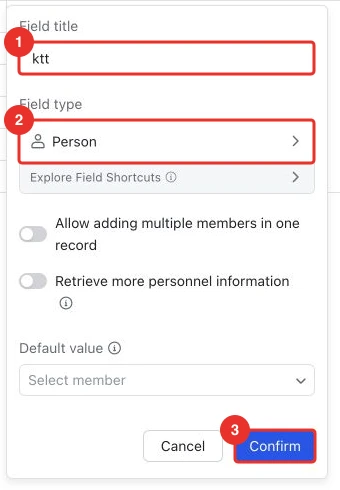
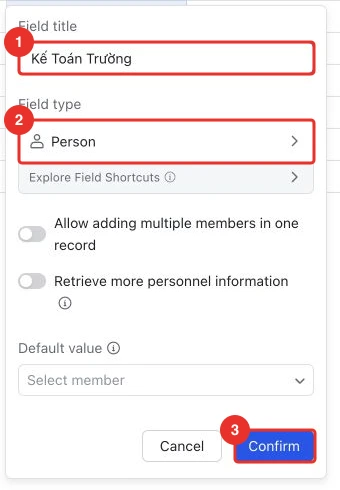
Use full Ke Toan Truong field label in guide

diff --git a/src/content/guides/thiet-lap-base.md b/src/content/guides/thiet-lap-base.md
@@ -5,7 +5,7 @@ description: "Tạo đủ 10 cột và chọn đúng tài khoản Lark cho nhân
 order: 1
 updated: "2026-10-01"
 verified: "2026-10-01"
-keywords: ["tạo Base","nhân viên","Họ Tên","Person","Text","tài khoản","account","Trưởng bộ phận","ktt","Kế toán trưởng","Tổng Giám Đốc","Ban kiểm soát","Chủ tịch","nhiều thành viên","cột","column","Search for members","Send a notification"]
+keywords: ["tạo Base","nhân viên","Họ Tên","Person","Text","tài khoản","account","Trưởng bộ phận","Kế Toán Trường","ktt","Tổng Giám Đốc","Ban kiểm soát","Chủ tịch","nhiều thành viên","cột","column","Search for members","Send a notification"]
 steps:
   - title: "Mở New — Tạo mới và chọn Base"
     action: "Trong Lark Docs, mở Home — Trang chủ. Bấm New — Tạo mới (khung 1), rồi bấm Base (khung 2)."
@@ -102,15 +102,15 @@ steps:
     alt: "Ảnh thật trong Lark, khung đỏ chỉ vị trí thao tác: Tạo cột Trưởng bộ phận bằng Person"
     value: "Field title: Trưởng bộ phận\nField type: Person"
     note: "Cột này chứa tài khoản người phụ trách trực tiếp của từng nhân viên. Đừng tạo kiểu Text rồi gõ tên người phụ trách."
-  - title: "Tạo cột ktt bằng Person"
-    action: "Bấm dấu +. Nhập ktt ở Field title (khung 1). Chọn Person ở Field type (khung 2), rồi bấm Confirm (khung 3)."
-    result: "Có cột ktt với biểu tượng hình người."
+  - title: "Tạo cột Kế Toán Trường bằng Person"
+    action: "Bấm dấu +. Nhập Kế Toán Trường ở Field title (khung 1). Chọn Person ở Field type (khung 2), rồi bấm Confirm (khung 3)."
+    result: "Có cột Kế Toán Trường với biểu tượng hình người."
     image: "thiet-lap-base/accountant-field.webp"
     imageWidth: 340
     imageHeight: 490
-    alt: "Ảnh thật trong Lark, khung đỏ chỉ vị trí thao tác: Tạo cột ktt bằng Person"
-    value: "Field title: ktt\nField type: Person"
-    note: "ktt là Kế toán trưởng. Giữ đúng tên ktt để khớp bài kết nối và mẫu hiện tại."
+    alt: "Ảnh thật trong Lark, khung đỏ chỉ vị trí thao tác: Tạo cột Kế Toán Trường bằng Person"
+    value: "Field title: Kế Toán Trường\nField type: Person"
+    note: "Dùng tên đầy đủ Kế Toán Trường cho dễ hiểu. Cột này phải là Person để chọn tài khoản người phụ trách."
   - title: "Tạo cột Tổng Giám Đốc bằng Person"
     action: "Bấm dấu +. Nhập Tổng Giám Đốc ở Field title (khung 1). Chọn Person ở Field type (khung 2), rồi bấm Confirm (khung 3)."
     result: "Có cột Tổng Giám Đốc với biểu tượng hình người."
@@ -138,7 +138,7 @@ steps:
     value: "Field title: Chủ tịch\nField type: Person"
     note: "Chủ tịch là cột bắt buộc cho các công ty TYG. Chọn tài khoản Chủ tịch áp dụng cho công ty của nhân viên."
   - title: "Kiểm tra các cột nhân viên và cấp phụ trách"
-    action: "Đối chiếu hàng tiêu đề với bảng 10 cột ở đầu bài. Person, Trưởng bộ phận, ktt và Tổng Giám Đốc phải có biểu tượng hình người."
+    action: "Đối chiếu hàng tiêu đề với bảng 10 cột ở đầu bài. Person, Trưởng bộ phận, Kế Toán Trường và Tổng Giám Đốc phải có biểu tượng hình người."
     result: "Họ Tên, Chức vụ, Phòng ban là chữ; các cột tài khoản là Person."
     image: "thiet-lap-base/columns-left.webp"
     imageWidth: 1444
@@ -229,14 +229,14 @@ steps:
     alt: "Ảnh thật trong Lark, khung đỏ chỉ vị trí thao tác: Chọn Trưởng bộ phận A cho X"
     value: "A = người phụ trách trực tiếp của X"
     note: "Chọn A theo quan hệ phụ trách đã được công ty xác nhận. Không tự điền X vào cột này, cũng không mặc định lấy người tạo Base."
-  - title: "Chọn Kế toán trưởng B cho X"
-    action: "Trên dòng của X, bấm đúp ô ktt (khung 1). Tìm và chọn tài khoản Kế toán trưởng B của công ty (khung 2)."
-    result: "Ô ktt trên dòng X chứa tài khoản B."
+  - title: "Chọn Kế Toán Trường B cho X"
+    action: "Trên dòng của X, bấm đúp ô Kế Toán Trường (khung 1). Tìm và chọn tài khoản Kế Toán Trường B của công ty (khung 2)."
+    result: "Ô Kế Toán Trường trên dòng X chứa tài khoản B."
     image: "thiet-lap-base/accountant-picker.webp"
     imageWidth: 305
     imageHeight: 116
-    alt: "Ảnh thật trong Lark, khung đỏ chỉ vị trí thao tác: Chọn Kế toán trưởng B cho X"
-    value: "B = Kế toán trưởng áp dụng cho X"
+    alt: "Ảnh thật trong Lark, khung đỏ chỉ vị trí thao tác: Chọn Kế Toán Trường B cho X"
+    value: "B = Kế Toán Trường áp dụng cho X"
   - title: "Chọn Tổng giám đốc C cho X"
     action: "Trên dòng của X, bấm đúp ô Tổng Giám Đốc (khung 1). Tìm và chọn tài khoản Tổng giám đốc C của công ty (khung 2)."
     result: "Ô Tổng Giám Đốc trên dòng X chứa tài khoản C."
@@ -272,7 +272,7 @@ steps:
     alt: "Ảnh thật trong Lark, khung đỏ chỉ vị trí thao tác: Thêm từng nhân viên còn lại"
     note: "A/B/C/D/E cũng là nhân sự thì vẫn có dòng riêng của họ. Tuyến phụ trách của họ phải theo danh sách công ty xác nhận; không suy ra từ ví dụ của X. Chỉ dùng chung người phụ trách khi thực tế đã xác nhận giống nhau."
   - title: "Kiểm tra trước khi kết nối Approval"
-    action: "Đối chiếu từng dòng với danh sách nhân sự đã xác nhận: Person đúng nhân viên; Trưởng bộ phận, ktt, Tổng Giám Đốc, Ban kiểm soát và Chủ tịch đúng tài khoản. Kiểm tra Lark báo Saved to cloud."
+    action: "Đối chiếu từng dòng với danh sách nhân sự đã xác nhận: Person đúng nhân viên; Trưởng bộ phận, Kế Toán Trường, Tổng Giám Đốc, Ban kiểm soát và Chủ tịch đúng tài khoản. Kiểm tra Lark báo Saved to cloud."
     result: "Base của công ty có đủ 10 cột và dữ liệu tài khoản đã được kiểm tra. Có thể sang bài Kết nối Base với Approval."
     image: "thiet-lap-base/columns-right.webp"
     imageWidth: 557
@@ -292,11 +292,13 @@ faqs:
     answer: "Bấm đúp tiêu đề Ban kiểm soát. Kiểm tra Field type là Person và bật Allow adding multiple members in one record, rồi Confirm. Sau đó chọn lại đủ các thành viên đã được công ty xác nhận."
   - question: "Có thể ghi chữ “Ban kiểm soát” hoặc “Chủ tịch” vào ô không?"
     answer: "Không dùng chữ thay cho tài khoản. Ban kiểm soát cần các tài khoản thành viên D1, D2…; Chủ tịch cần tài khoản E. Hai cột này dùng Person và là cột bắt buộc trong Base công ty theo yêu cầu TYG."
-  - question: "Các nhân viên cùng công ty có thể dùng cùng ktt, Tổng giám đốc, Ban kiểm soát và Chủ tịch?"
+  - question: "Các nhân viên cùng công ty có thể dùng cùng Kế Toán Trường, Tổng giám đốc, Ban kiểm soát và Chủ tịch?"
     answer: "Có thể chọn cùng tài khoản nếu đúng danh sách công ty đã xác nhận. Trưởng bộ phận có thể khác giữa các nhân viên. Không mặc định sao chép mọi người phụ trách từ một dòng sang tất cả dòng."
   - question: "Base tự tạo luồng duyệt theo các cấp trên chưa?"
     answer: "Chưa. Base chỉ lưu các tài khoản để biểu mẫu có thể tham chiếu. Còn phải cấu hình từng bước và điều kiện trong Process Design của Approval. Bài kế tiếp chỉ hướng dẫn mẫu một bước theo Person; chưa đặt chính sách duyệt nhiều cấp."
 changes:
+  - date: "2026-10-01"
+    text: "Đổi tên cột ktt thành Kế Toán Trường theo yêu cầu TYG; cập nhật hướng dẫn, ví dụ và ảnh thật trong Base thực hành."
   - date: "2026-10-01"
     text: "Thêm bài trước phần kết nối Approval: 10 cột, phân biệt Text và Person, ví dụ X/A/B/C/D1/D2/E; Ban kiểm soát và Chủ tịch bắt buộc, Ban kiểm soát cho phép nhiều tài khoản theo xác nhận của TYG."
 sources:
@@ -318,7 +320,7 @@ sources:
 | Chức vụ | Text — Văn bản | Nhân viên kinh doanh (ví dụ) |
 | Phòng ban | Text — Văn bản | Phòng kinh doanh (ví dụ) |
 | Trưởng bộ phận | Person — Tài khoản người | Chọn A, người phụ trách trực tiếp của X |
-| ktt | Person — Tài khoản người | Chọn B, Kế toán trưởng của công ty |
+| Kế Toán Trường | Person — Tài khoản người | Chọn B, Kế Toán Trường của công ty |
 | Tổng Giám Đốc | Person — Tài khoản người | Chọn C, Tổng giám đốc của công ty |
 | Ban kiểm soát | Person — cho phép nhiều thành viên | Chọn các tài khoản D1, D2… |
 | Chủ tịch | Person — Tài khoản người | Chọn E, Chủ tịch áp dụng cho công ty |
@@ -329,7 +331,7 @@ sources:
 
 X/A/B/C/D1/D2/E là **ký hiệu giả để giải thích**, không phải tên tài khoản có thể tìm trên Lark. Trong công ty của bạn, thay từng ký hiệu bằng đúng tài khoản thật đã xác nhận.
 
-| Dòng nhân viên | Person | Trưởng bộ phận | ktt | Tổng Giám Đốc | Ban kiểm soát | Chủ tịch |
+| Dòng nhân viên | Person | Trưởng bộ phận | Kế Toán Trường | Tổng Giám Đốc | Ban kiểm soát | Chủ tịch |
 | --- | --- | --- | --- | --- | --- | --- |
 | Nhân viên X | Tài khoản X | Tài khoản A | Tài khoản B | Tài khoản C | Tài khoản D1 và D2… | Tài khoản E |
 

diff --git a/src/content/guides/ket-noi-base.md b/src/content/guides/ket-noi-base.md
@@ -51,13 +51,13 @@ steps:
     note: "Person phải là cột kiểu Person trong Base. Cột Họ Tên kiểu Text chỉ chứa chữ, không đại diện cho tài khoản Lark để duyệt."
   - title: "Thêm các trường còn lại của mẫu"
     action: "Tiếp tục bấm Add để chọn từng trường cần đưa vào biểu mẫu."
-    value: "Chức vụ\nPhòng ban\nTrưởng bộ phận\nktt\nTổng Giám Đốc"
+    value: "Chức vụ\nPhòng ban\nTrưởng bộ phận\nKế Toán Trường\nTổng Giám Đốc"
     result: "Danh sách có sáu trường như ảnh. Các trường xuất hiện cùng nhóm trong biểu mẫu."
     image: "ket-noi-base/reference-fields.webp"
     imageWidth: 350
     imageHeight: 320
     alt: "Danh sách trường tham chiếu trong mẫu gồm Person, Chức vụ, Phòng ban, Trưởng bộ phận, ktt và Tổng Giám Đốc"
-    note: "ktt là Kế toán trưởng. Base công ty còn cần Ban kiểm soát và Chủ tịch theo bài 01; mẫu kết nối đang tham chiếu sáu trường như ảnh. Các cột tài khoản chưa tự trở thành cấp duyệt. Việc chọn người duyệt được làm ở Process Design."
+    note: "Chọn cột Kế Toán Trường trong Base của bạn. Ảnh mẫu cũ hiển thị tên viết tắt ktt. Base công ty còn cần Ban kiểm soát và Chủ tịch theo bài 01; mẫu kết nối đang tham chiếu sáu trường như ảnh. Các cột tài khoản chưa tự trở thành cấp duyệt. Việc chọn người duyệt được làm ở Process Design."
   - title: "Hiểu phạm vi All data — Tất cả dữ liệu"
     action: "Đọc mục Submitter can select data from — Người gửi có thể chọn dữ liệu từ. Để làm theo cấu hình mẫu, chọn All data."
     value: "All data"
@@ -158,6 +158,8 @@ faqs:
   - question: "Bản hướng dẫn này đã chạy thử quy trình thật chưa?"
     answer: "Chưa. Cấu hình và nút được khảo sát trong giao diện thật ngày 01/10/2026. Chưa Publish, chưa gửi đơn thử và chưa xác nhận thông báo tới người duyệt."
 changes:
+  - date: "2026-10-01"
+    text: "Dùng tên đầy đủ Kế Toán Trường trong hướng dẫn kết nối; ghi rõ ảnh cấu hình mẫu cũ vẫn hiển thị ktt."
   - date: "2026-10-01"
     text: "Chuyển thành bài 02, thêm liên kết bài thiết lập Base 10 cột. Làm rõ Ban kiểm soát và Chủ tịch bắt buộc trong Base nhưng chưa dùng làm cấp duyệt trong mẫu một bước hiện tại."
   - date: "2026-10-01"
